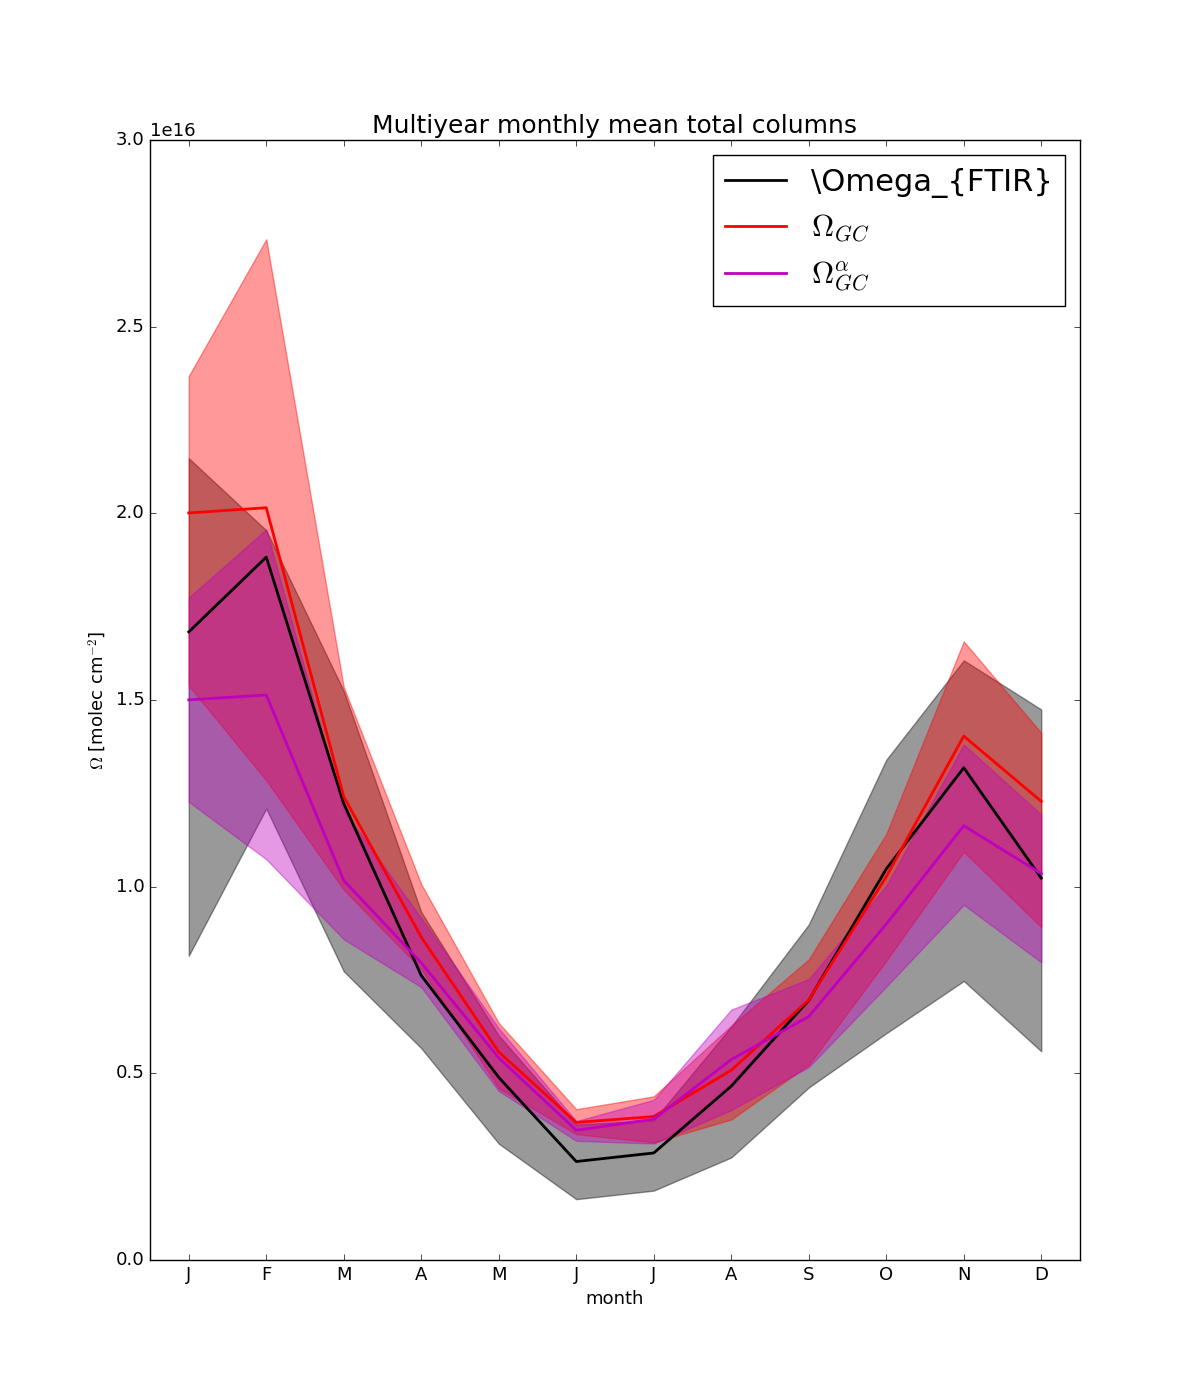
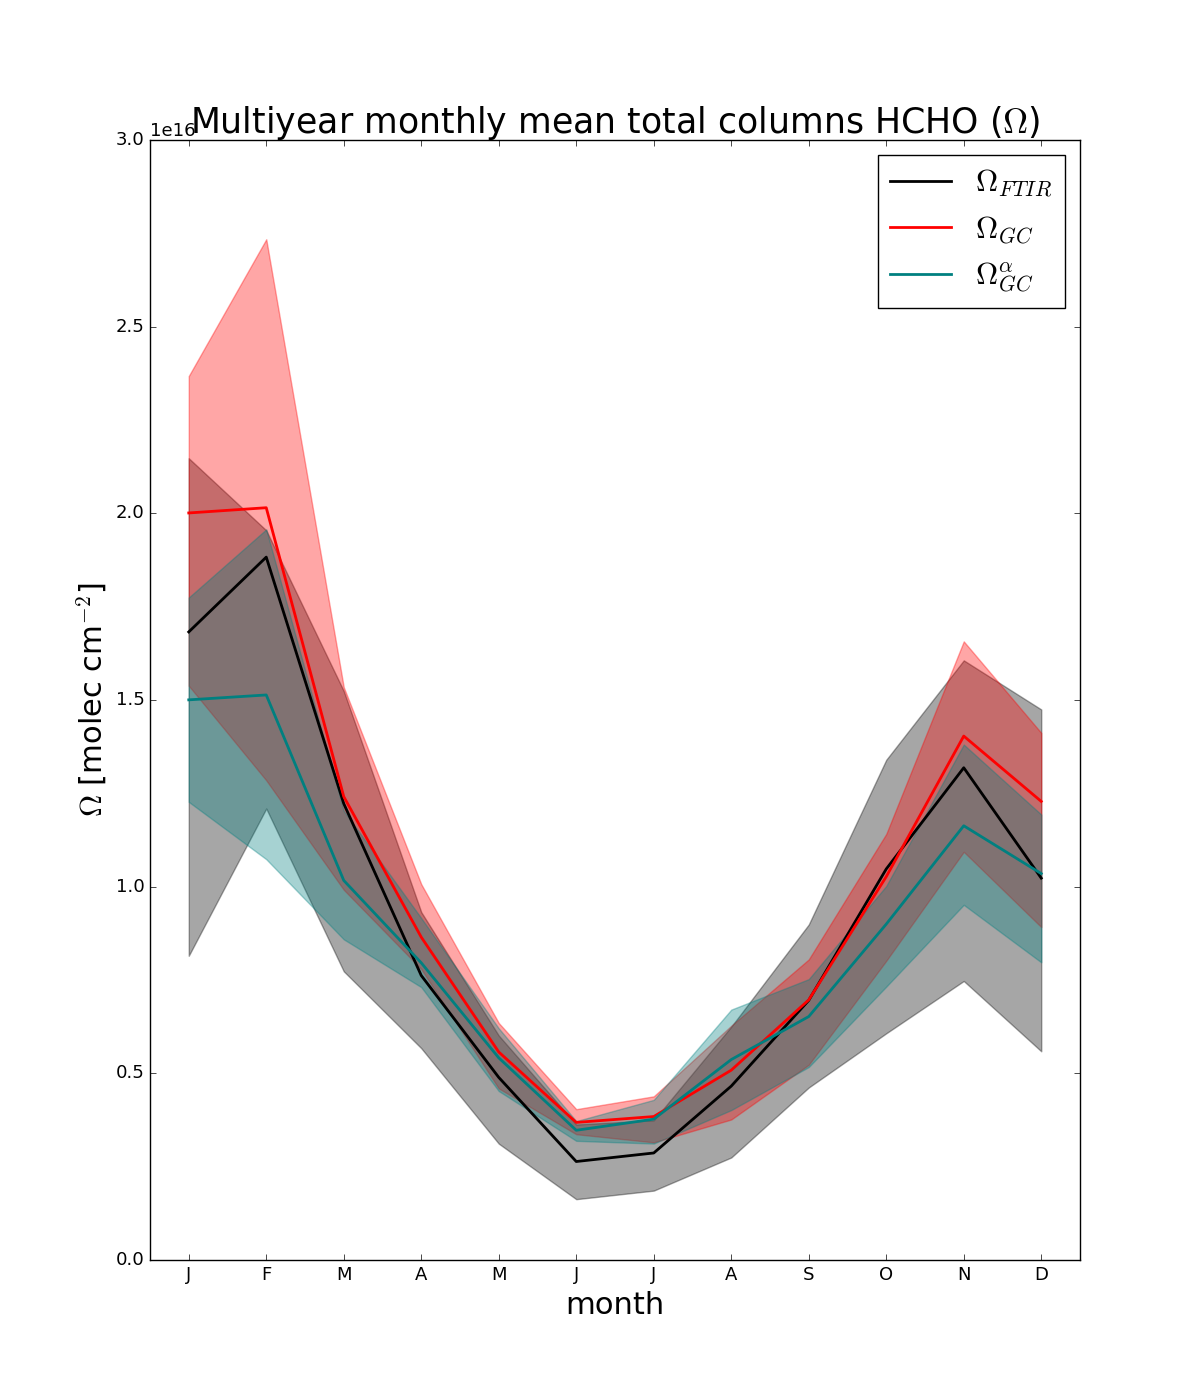
updated TC Comparison

diff --git a/chapter_3_isop.py b/chapter_3_isop.py
@@ -1327,6 +1327,11 @@ def FTIR_Comparison():
         Time series and seasonal mean and iqr of deconvolved HCHO total columns
         both a priori and posteriori plotted next to FTIR
     '''
+    
+    pname_TC_series='Figs/FTIR_TC_Comparison_series.png'
+    pname_mya='Figs/FTIR_TC_Comparison_MYA.png'
+    
+    
     # FTIR Comparison
     LatWol, LonWol = pp.__cities__['Wol']
     
@@ -1341,19 +1346,7 @@ def FTIR_Comparison():
     #plt.plot(middatas['DOF']) # DOFs range from 1.3 in summer to 1.7 in winters
     
     
-    #from tests import test_campaigns
-    # read ftir and plot some stuff for methods summary
-    #test_campaigns.ftir_method_plots()
-    
-    import chapter_3_isop
-    chapter_3_isop.fullpageFigure()
-    
-    # Read GC output
-    #trop = GC_class.GC_sat(datetime(2007,8,1), datetime(2012,12,31), keys=['IJ-AVG-$_CH2O']+GC_class.__gc_tropcolumn_keys__)
-    
     d0,d1=datetime(2007,7,1), datetime(2012,12,31)
-    #d0,d1=datetime(2007,7,1), datetime(2008,12,31)
-    #d0,d1=datetime(2008,1,1), datetime(2008,1,31)
     
     trop = GC_class.GC_sat(d0,d1, keys=['IJ-AVG-$_CH2O']+GC_class.__gc_tropcolumn_keys__)
     tropa= GC_class.GC_sat(d0,d1, keys=['IJ-AVG-$_CH2O']+GC_class.__gc_tropcolumn_keys__, run='new_emissions')
@@ -1373,9 +1366,6 @@ def FTIR_Comparison():
     #print("FTIR shapes before deconv:", np.shape(middatas['VMR']),np.shape(middatas['dates']), np.shape(ftir.dates))
     decon   = ftir.Deconvolve(GC_VMR, dates,p, checkname='check_interp.png')
     decona  = ftir.Deconvolve(GCa_VMR, dates,p,checkname='check_interp_a.png')
-    #print( "shapes after deconv")
-    #for key in ['new_TC', 'p','matched_x_m','x_m','dates','dp']:
-    #    print(key, np.shape(decon[key]), np.shape(decona[key]) )
     
     # need delta pressure for TC conversion:
     #data={ k:decon[k] for k in ['new_TC', 'orig_TC', 'TC_ret']}
@@ -1383,11 +1373,9 @@ def FTIR_Comparison():
     TC_df = pd.DataFrame(data, index=decon['dates'])
     
     # drop the NaNs and plot 
-    TC_df.dropna()
-    TC_df.plot(linestyle=':',marker='+')
+    TC_df.plot(linestyle='',marker='+')
     #plt.show()
     
-    pname_TC_series='Figs/FTIR_TC_Comparison_series.png'
     plt.savefig(pname_TC_series)
     plt.close()
     print("Saved ",pname_TC_series)
@@ -1414,7 +1402,6 @@ def FTIR_Comparison():
     plt.title('Multiyear monthly mean total columns HCHO ($\Omega$)',fontsize=25)
     plt.xlim([-0.5, 11.5])
     plt.xticks(range(12),['J','F','M','A','M','J','J','A','S','O','N','D'])
-    pname_mya='Figs/FTIR_TC_Comparison_MYA.png'
     plt.savefig(pname_mya)
     plt.close()
     print("Saved ",pname_mya)
